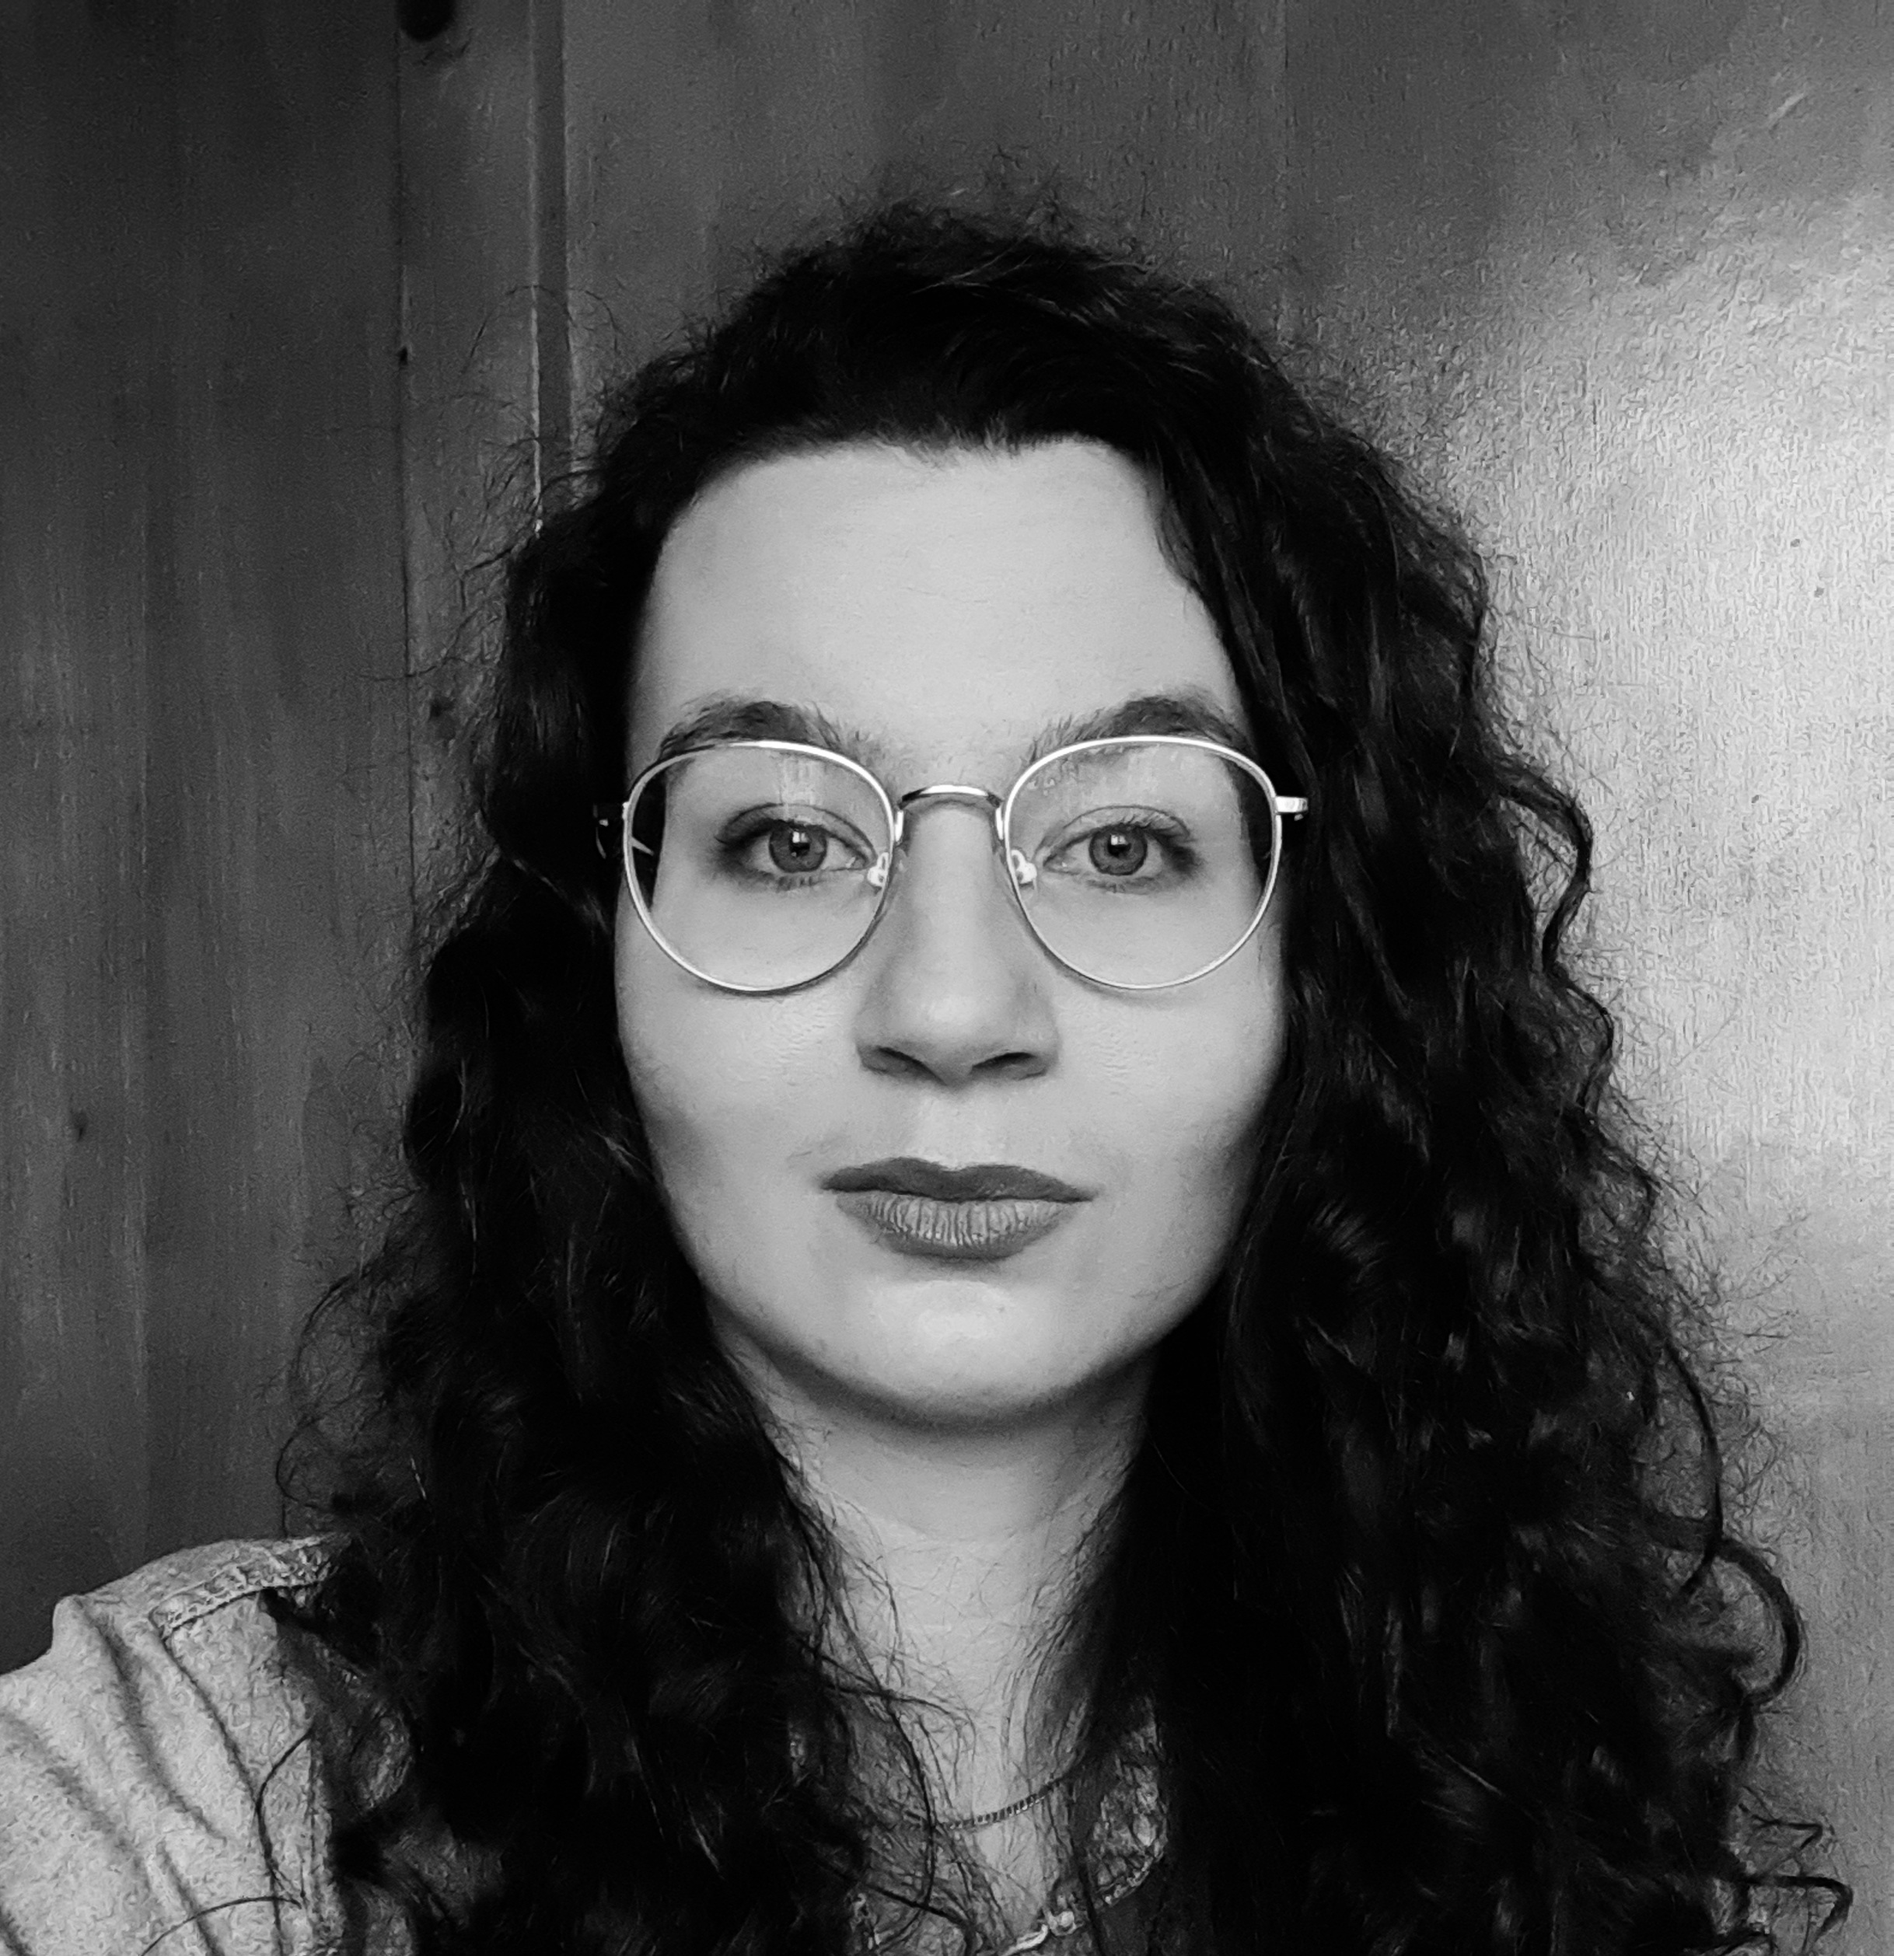
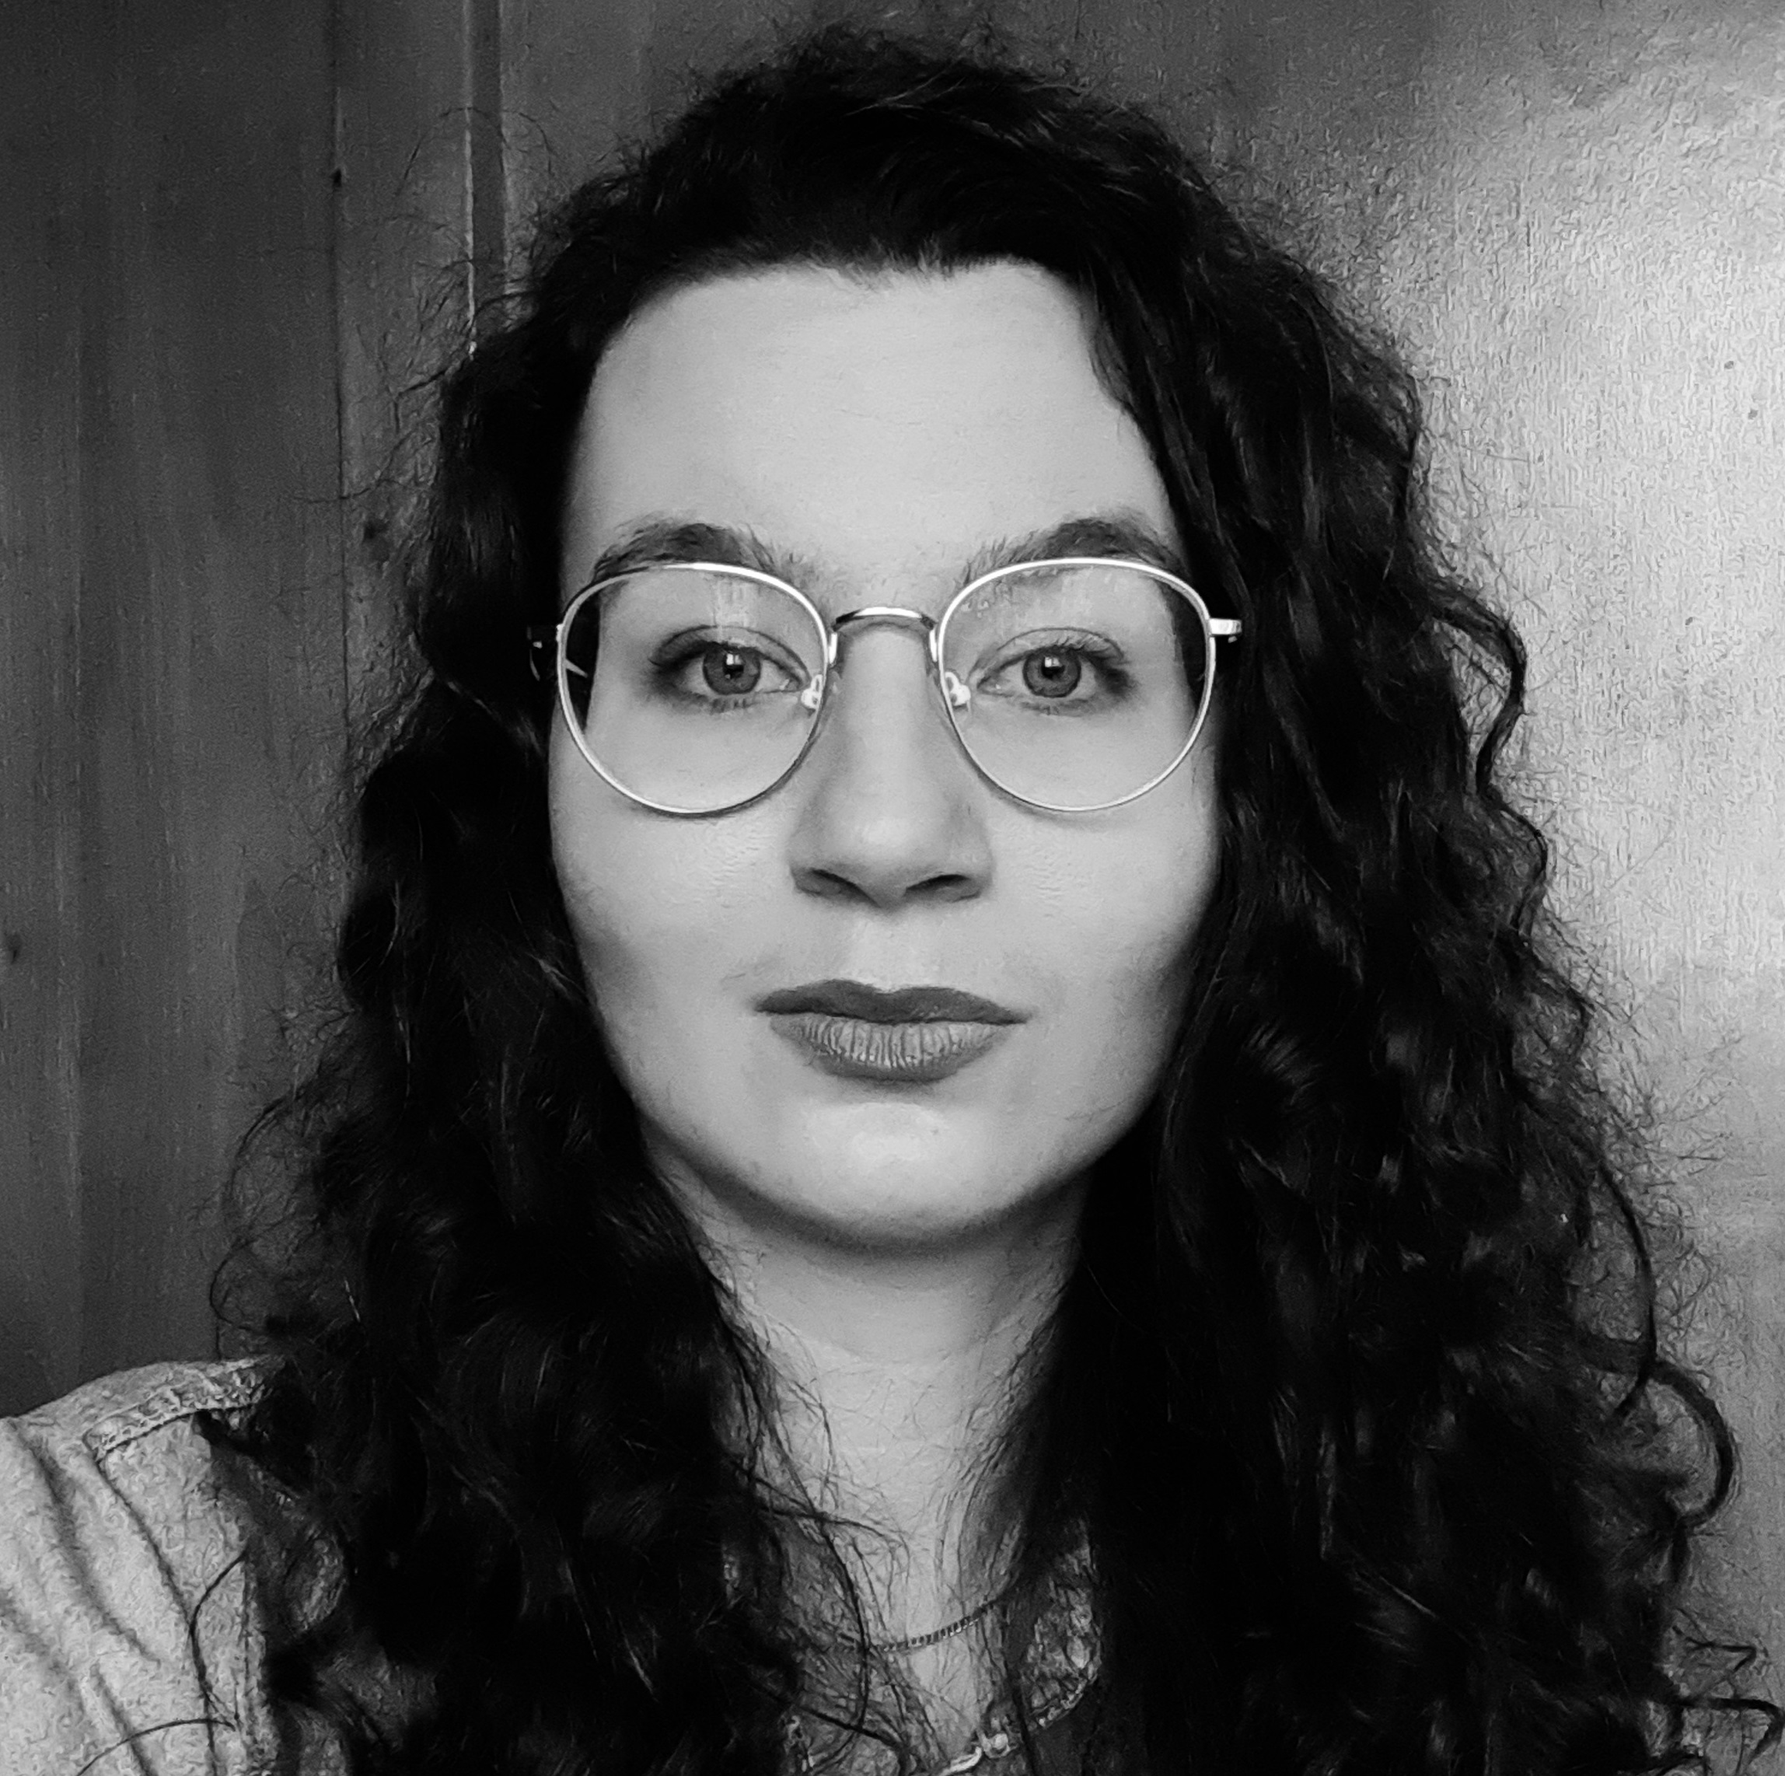
Added a picture

diff --git a/index.html b/index.html
@@ -56,12 +56,20 @@
   </div>
 </nav>
     <div class="body">
+        <div class="container">
+            <div class="row">
+                <div class="col-5">
             <h2>hi there, I'm</h2>
             <h1>Zosia Stawarska</h1>
             <h3>front-end developer based in Katowice, PL</h3>
-        <a href="#" class="link" title="link to projects">portfolio</a>
+         <a href="#" class="link" title="link to projects">portfolio</a>
+                </div>
+            <div class="col-7">
+       <img src="/images/portrait.jpg" alt="woman" class="img-fluid portrait">
+            </div>
+        </div>
+    </div>
       </div>
-      <img src="/images/portrait.jpg" alt="woman" class="img-fluid portrait">
     </div>
     
     <footer>

diff --git a/src/portfolio.css b/src/portfolio.css
@@ -52,6 +52,11 @@ h3 {
   color: white;
 }
 
+.portrait {
+  border-radius: 50%;
+  max-width: 40%;
+}
+
 footer {
   height: 100px;
   width: 100%;
